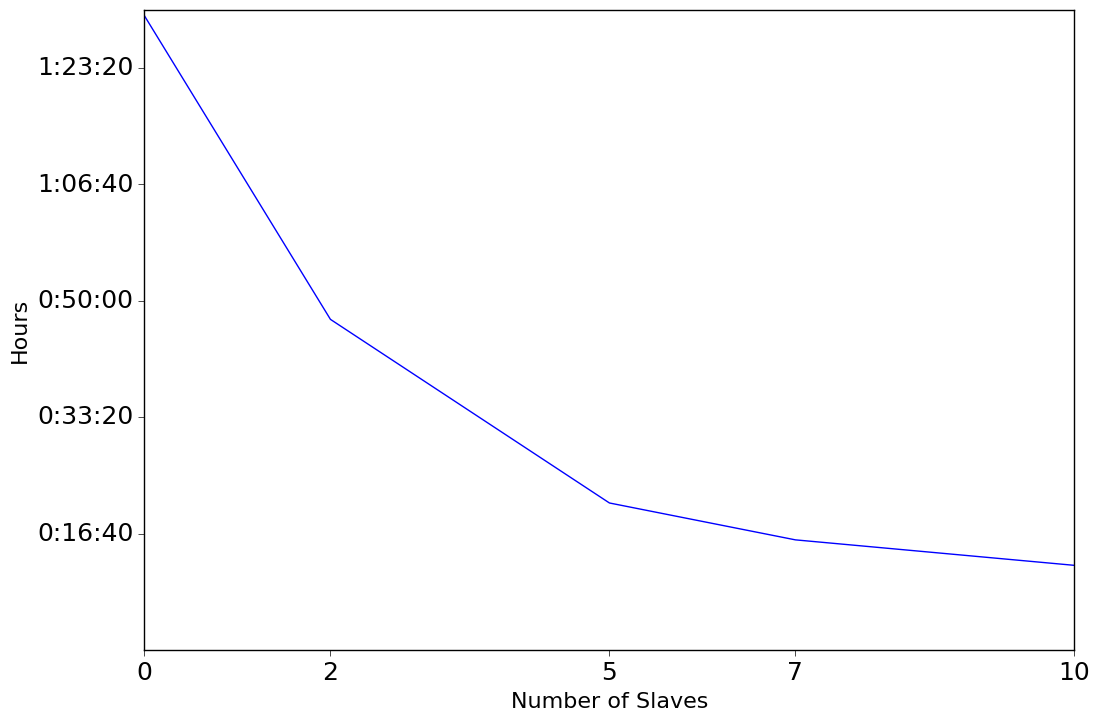
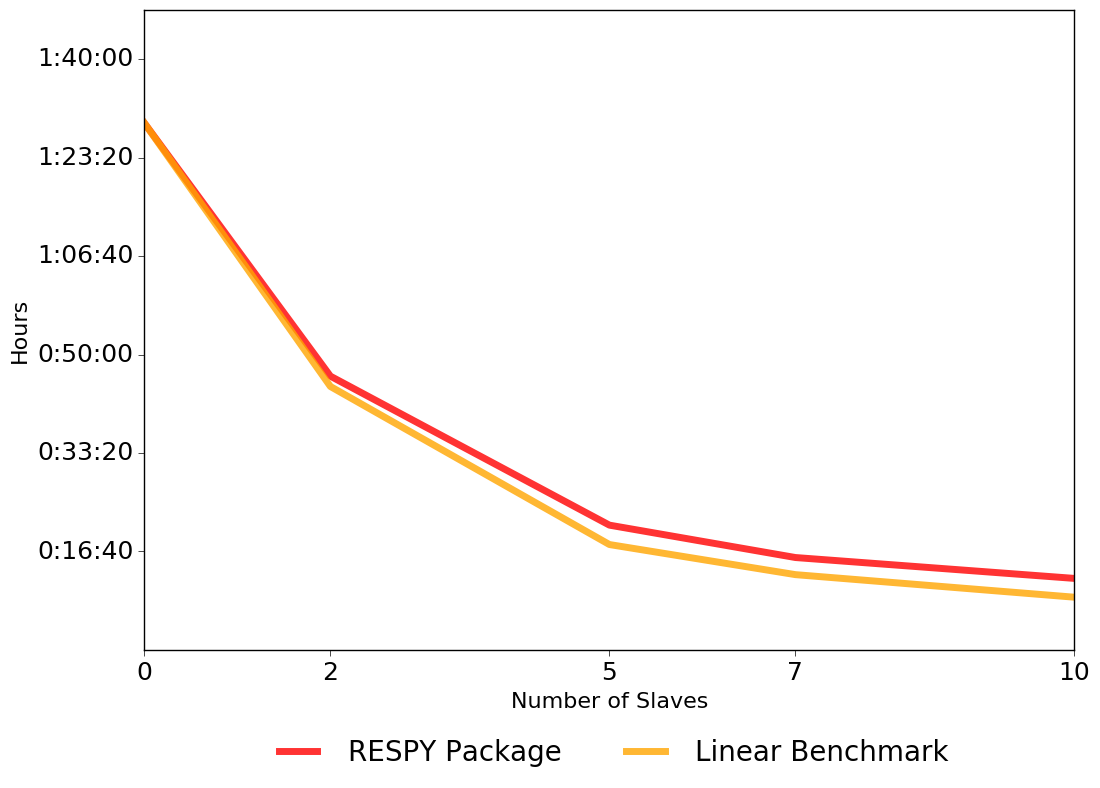
edits

diff --git a/development/testing/scalability/run.py b/development/testing/scalability/run.py
@@ -1,11 +1,11 @@
 #!/usr/bin/env python
 
 import argparse
-import shlex
 import sys
 
 sys.path.insert(0, '../_modules')
 from auxiliary_shared import aggregate_information
+from auxiliary_scalability import plot_scalability
 from auxiliary_shared import send_notification
 from auxiliary_shared import compile_package
 from auxiliary_scalability import run
@@ -13,102 +13,25 @@ from auxiliary_shared import cleanup
 from config import SPECS
 
 
-
-def get_durations():
-
-    rslt = dict()
-    labels = []
-    grid_slaves = []
-
-    with open('scalability.respy.info', 'r') as infile:
-
-        for line in infile.readlines():
-
-            # Split line
-            list_ = shlex.split(line)
-
-            if not list_:
-                continue
-
-            if list_[0] == 'Slaves':
-                continue
-
-            # Create key for each of the data specifications.
-            if 'kw_data' in list_[0]:
-                label = list_[0]
-                rslt[label] = dict()
-
-                labels += [label]
-
-            # Process the interesting lines.
-            if len(list_) == 6:
-
-
-                from time import mktime
-                from datetime import datetime
-                from datetime import datetime, timedelta
-
-                num_slaves = int(list_[0])
-                grid_slaves += [num_slaves]
-
-                t = datetime.strptime(list_[5],"%H:%M:%S")
-                duration = timedelta(hours=t.hour, minutes=t.minute, seconds=t.second)
-
-
-                rslt[label][num_slaves] = duration
-
-    # Remove all duplicates from the grid of slaves.
-    grid_slaves = sorted(list(set(grid_slaves)))
-
-    return rslt, labels, grid_slaves
-
-import matplotlib.pyplot as plt
-import matplotlib
-import datetime
-
-def timeTicks(x, pos):
-
-    d = datetime.timedelta(seconds=x)
-    return str(d)
-
 def check_scalability(args):
+    """ Details of the scalability exercise can be specified in the code block
+    below. Note that only deviations from the benchmark initialization files
+    need to be addressed.
+    """
+    spec_dict = dict()
 
+    if args.is_debug:
+        GRID_SLAVES = [0, 2]
+        spec_dict['maxfun'] = 200
+        spec_dict['num_draws_emax'] = 5
+        spec_dict['num_draws_prob'] = 3
+        spec_dict['num_agents_est'] = 100
+        spec_dict['num_agents_sim'] = spec_dict['num_agents_est']
+        spec_dict['scaling'] = [False, 0.00001]
+        spec_dict['num_periods'] = 3
 
     if args.is_finalize:
-
-        # TODO: aGGREGATE IN FUNCTION, CALL IN THE END TOW AND SEND WITH EMAIL
-        rslt, labels, grid_slaves = get_durations()
-
-        print(rslt, labels, grid_slaves)
-
-        ax = plt.figure(figsize=(12, 8)).add_subplot(111)
-        ys = []
-        for num_slaves in grid_slaves:
-            ys += [rslt[labels[0]][num_slaves].total_seconds()]
-
-        print(ys)
-        xs = grid_slaves
-        formatter = matplotlib.ticker.FuncFormatter(timeTicks)
-
-        ax.plot(xs, ys)
-        ax.yaxis.set_major_formatter(formatter)
-
-        ax.tick_params(labelsize=18, direction='out', axis='both', top='off',
-            right='off')
-
-        # y axis
-        ax.set_ylim([0.0, 5500])
-        ax.yaxis.get_major_ticks()[0].set_visible(False)
-        ax.set_ylabel('Hours', fontsize=16)
-
-        # x axis
-        ax.set_xlabel('Number of Slaves', fontsize=16)
-        ax.set_xticks(grid_slaves)
-
-        # # Write out to
-        plt.savefig('scalability.respy.png', bbox_inches='tight',
-                     format='png')
-
+        plot_scalability()
         return
 
     cleanup()
@@ -116,29 +39,11 @@ def check_scalability(args):
     if args.is_compile:
         compile_package()
 
-    ''' Details of the scalability exercise can be specified in the code block
-    below. Note that only deviations from the benchmark initialization files
-    need to be addressed.
-    '''
-    spec_dict = dict()
-
-    if args.is_debug:
-
-        GRID_SLAVES = [0, 2]
-
-        spec_dict['maxfun'] = 200
-        spec_dict['num_draws_emax'] = 5
-        spec_dict['num_draws_prob'] = 3
-        spec_dict['num_agents_est'] = 100
-        spec_dict['num_agents_sim'] = spec_dict['num_agents_est']
-
-        spec_dict['scaling'] = [False, 0.00001]
-        spec_dict['num_periods'] = 3
-
     for spec in SPECS:
         run(spec_dict, spec + '.ini', GRID_SLAVES)
 
     aggregate_information('scalability')
+    plot_scalability()
     send_notification('scalability')
 
 if __name__ == '__main__':

diff --git a/development/testing/_modules/auxiliary_scalability.py b/development/testing/_modules/auxiliary_scalability.py
@@ -1,15 +1,102 @@
-import os
-import sys
+import matplotlib.pyplot as plt
+from datetime import timedelta
 from datetime import datetime
-from config import SPEC_DIR
-# Reconstruct directory structure and edits to PYTHONPATH
+import matplotlib
+import shlex
+import os
+
 from auxiliary_shared import strfdelta
+from config import SPEC_DIR
 
 import respy
 
 
-def run(spec_dict, fname, grid_slaves):
+def get_durations():
+    rslt, labels, grid_slaves = dict(), [], []
 
+    with open('scalability.respy.base', 'r') as infile:
+        for line in infile.readlines():
+            list_ = shlex.split(line)
+            if not list_:
+                continue
+            if list_[0] == 'Slaves':
+                continue
+
+            # Create key for each of the data specifications.
+            if 'kw_data' in list_[0]:
+                label = list_[0]
+                rslt[label] = dict()
+                labels += [label]
+
+            # Process the interesting lines.
+            if len(list_) == 6:
+                num_slaves = int(list_[0])
+                grid_slaves += [num_slaves]
+                t = datetime.strptime(list_[5], "%H:%M:%S")
+                duration = timedelta(hours=t.hour, minutes=t.minute,
+                                     seconds=t.second)
+                rslt[label][num_slaves] = duration
+
+    # Remove all duplicates from the grid of slaves.
+    grid_slaves = sorted(list(set(grid_slaves)))
+
+    return rslt, labels, grid_slaves
+
+
+def linear_gains(num_slaves, ys):
+    if num_slaves == 0:
+        return ys[0]
+    else:
+        return ys[0] / num_slaves
+
+
+def plot_scalability():
+    rslt, labels, grid_slaves = get_durations()
+
+    ax = plt.figure(figsize=(12, 8)).add_subplot(111)
+
+    ys = []
+    for num_slaves in grid_slaves:
+        ys += [rslt[labels[0]][num_slaves].total_seconds()]
+
+    formatter = matplotlib.ticker.FuncFormatter(ylabel_formatting)
+
+    ax.plot(grid_slaves, ys, linewidth=5, label='RESPY Package',
+            color='red', alpha=0.8)
+
+    func_lin = []
+    for num_slaves in grid_slaves:
+        func_lin += [linear_gains(num_slaves, ys)]
+
+    ax.plot(grid_slaves, func_lin, linewidth=1, linestyle='--',
+            label='Linear Benchmark', color='black')
+
+    ax.yaxis.set_major_formatter(formatter)
+
+    ax.tick_params(labelsize=18, direction='out', axis='both', top='off',
+                   right='off')
+
+    ax.set_ylim([0.0, 6500])
+    ax.yaxis.get_major_ticks()[0].set_visible(False)
+    ax.set_ylabel('Hours', fontsize=16)
+
+    ax.set_xlabel('Number of Slaves', fontsize=16)
+    ax.set_xticks(grid_slaves)
+
+    # Set up legend
+    ax.legend(loc='upper center', bbox_to_anchor=(0.5, -0.10),
+            fancybox=False, frameon=False, shadow=False,
+            ncol=2, fontsize=20)
+
+    plt.savefig('scalability.respy.png', bbox_inches='tight', format='png')
+
+
+def ylabel_formatting(x, _):
+    d = timedelta(seconds=x)
+    return str(d)
+
+
+def run(spec_dict, fname, grid_slaves):
     dirname = fname.replace('.ini', '')
     os.mkdir(dirname), os.chdir(dirname)
 
@@ -17,7 +104,6 @@ def run(spec_dict, fname, grid_slaves):
 
     respy_obj.unlock()
     respy_obj.set_attr('file_est', '../data.respy.dat')
-
     for key_ in spec_dict.keys():
         respy_obj.set_attr(key_, spec_dict[key_])
     respy_obj.lock()

diff --git a/development/testing/reliability/run.py b/development/testing/reliability/run.py
@@ -15,16 +15,10 @@ from config import SPECS
 
 
 def check_reliability(args):
-
-    cleanup()
-
-    if args.is_compile:
-        compile_package()
-
-    ''' Details of the Monte Carlo exercise can be specified in the code block
+    """ Details of the Monte Carlo exercise can be specified in the code block
     below. Note that only deviations from the benchmark initialization files
     need to be addressed.
-    '''
+    """
     spec_dict = dict()
     spec_dict['num_procs'] = 5
 
@@ -37,6 +31,11 @@ def check_reliability(args):
         spec_dict['scaling'] = [False, 0.00001]
         spec_dict['num_periods'] = 3
         spec_dict['num_procs'] = 1
+
+    cleanup()
+
+    if args.is_compile:
+        compile_package()
 
     tasks = []
     for spec in SPECS:
